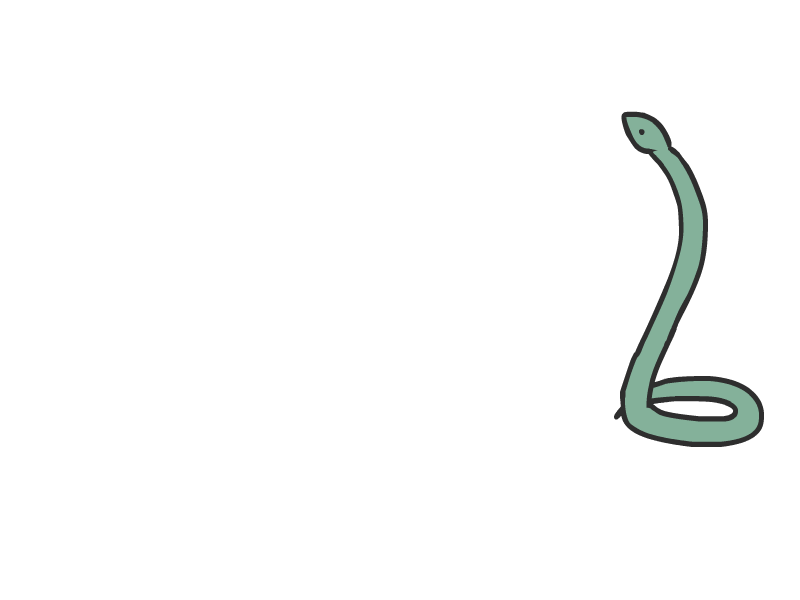
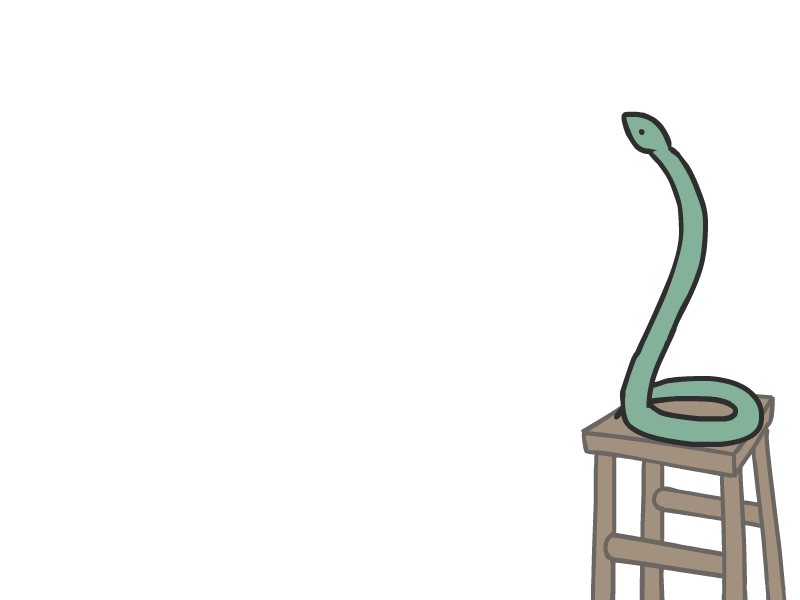
Give viper a stool

Changed region(s): [[0.7188, 0.66, 1.0, 1.0]]

diff --git a/addons/comic.js b/addons/comic.js
@@ -4,7 +4,8 @@ var Canvas = require('canvas');
 var messages = require(__base+'core/messages.js');
 var discord = require(__base+'core/discord.js');
 var config = require(__base+'core/config.js');
-var images = require('./helpers/comic/images.js');
+var requireUncached = require('require-uncached');
+var images = requireUncached('./helpers/comic/images.js');
 
 // ✔ Multiple messages from the same user can clump into one frame
 // ✔ Pay attention to message times to create conversations, and insert pauses with silent frames
@@ -37,7 +38,7 @@ _commands.comic = async function(data) {
     let msgPool = await messages.cursor(db => db.cfind(query).sort({time:-1}).limit(30).skip(skip));
 
     msgPool = msgPool.map(({ content: text, user, time }) => ({
-        text, time, user: config.comic.users[user] || 'anon'
+        text, time, user: config.comic.users[user] || user
     }));
 
     var dialogue = buildDialogue(msgPool);
@@ -187,10 +188,10 @@ function placeActors(dialogue) {
 
 function drawActors(frames) {
     var bgColor = { h: Math.random(), s: 0.15, v: 0.9 };
-    console.log('drawing actors to frames');
+    // console.log('drawing actors to frames');
     // Draw actors to frames
     for(var da = 0; da < frames.length; da++) {
-        console.log('drawing frame',da-frames.length+5);
+        // console.log('drawing frame',da-frames.length+5);
         var frame = frames[da];
         frame.bgImage = createCanvas(fWidth,fHeight);
         frame.bgImage.ctx.rect(0,0,fWidth,fHeight);
@@ -280,9 +281,9 @@ function fillText(frames) {
 }
 
 function drawFrameToComic(frame) {
-    console.log('drawFrameToComic');
-    console.log('drawing:',frame.number,frame.speaker,frame.actors);
-    console.log('text plan:',JSON.stringify(frame.textPlan, null, '\t'));
+    // console.log('drawFrameToComic');
+    // console.log('drawing:',frame.number,frame.speaker,frame.actors);
+    // console.log('text plan:',JSON.stringify(frame.textPlan, null, '\t'));
     var frameX = (frame.number-1) % 2 * fWidth,
         frameY = Math.floor((frame.number-1) / 2) * fHeight;
     //ctx.fillStyle = '#eeeeee'; // Draw frame BG color

diff --git a/addons/helpers/comic/images.js b/addons/helpers/comic/images.js
@@ -42,7 +42,7 @@ for(var i = 0; i < imageList.length; i++) {
 }
 
 function flipCollision(collisionMap) { // Flip collision map side
-    var flipped = { side: collisionMap.side == 'right' ? 'left' : 'right', rows: [] };
+    var flipped = { side: collisionMap.side === 'right' ? 'left' : 'right', rows: [] };
     for(var fc = 0; fc < fHeight/collisionPrecision; fc++) {
         flipped.rows.push(collisionMap.rows[fc] !== false ?
             fWidth/collisionPrecision-collisionMap.rows[fc] : false)
